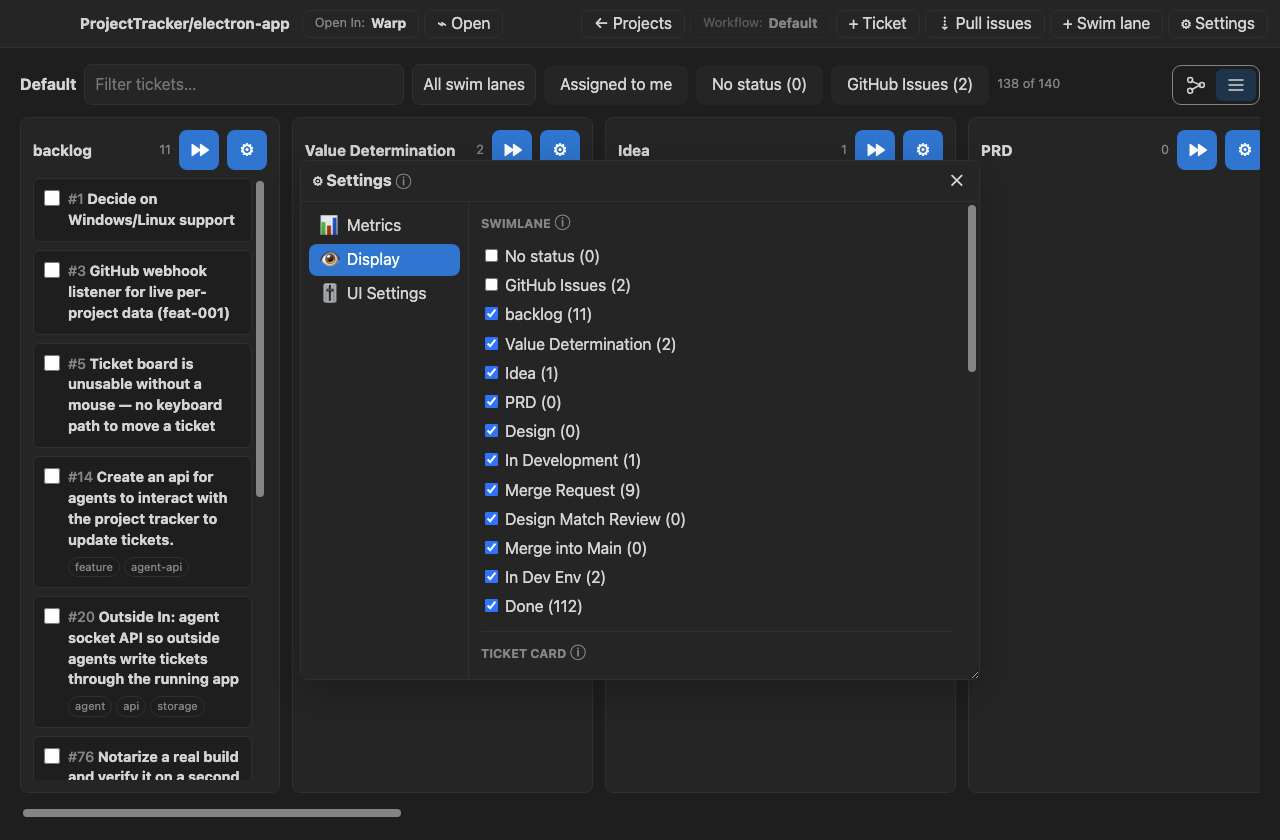
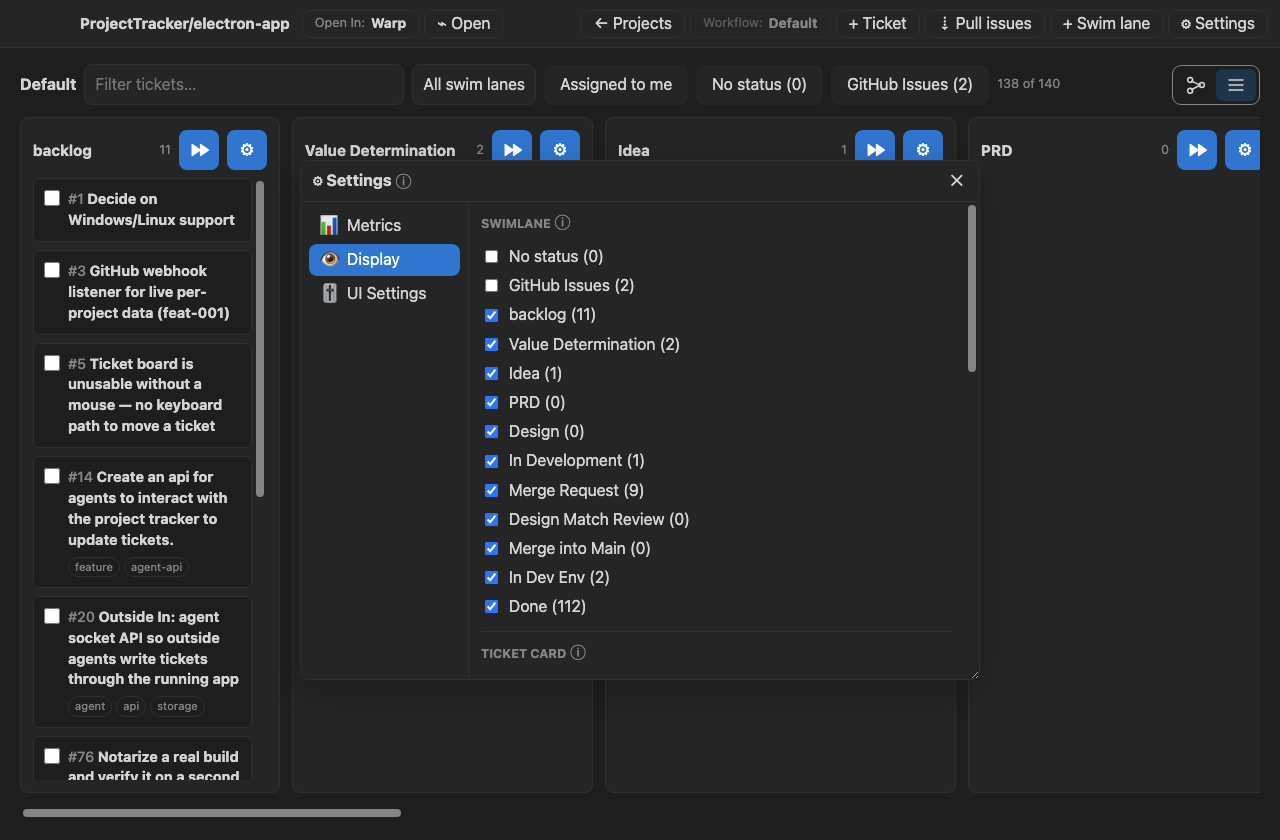
Review fixes: Display row styles in Settings panel, PRD criteria for sidebar layout
Display checkbox rows lost their gap/cursor/color once they moved out of
.modal. Stale 320px comment updated. PRD acceptance + verify steps now
describe the sidebar layout.

Changed region(s): [[0.375, 0.2786, 0.5312, 0.7429]]

diff --git a/src/styles.css b/src/styles.css
@@ -1584,7 +1584,8 @@ code {
 
 /* Scoped through .modal to outrank `.lane-modal label`, which stacks its label
    contents in a column — a checkbox and its text belong on one line. */
-.modal .card-field-list label {
+.modal .card-field-list label,
+.ui-demo-panel .card-field-list label {
   display: flex;
   flex-direction: row;
   align-items: center;
@@ -2547,7 +2548,7 @@ span.ticket-image-thumb {
   touch-action: none;
 }
 
-/* Static so the bubble anchors to the titlebar's left edge and fits the 320px panel. */
+/* Static so the bubble anchors to the titlebar's left edge and stays inside the panel. */
 .ui-demo-titlebar .info-tip {
   position: static;
   cursor: default;

diff --git a/docs/prd/t145-settings-floating-panel.md b/docs/prd/t145-settings-floating-panel.md
@@ -39,24 +39,23 @@ Settings takes two hops today. `⚙ Settings` (`BoardView.vue:1635`) opens a Set
 ## Acceptance criteria
 - Header has exactly one `⚙ Settings` button
 - Clicking it opens the floating Settings panel, with no modal and no backdrop. Clicking it again closes the panel, and so do ✕ and Esc.
-- The panel has 3 accordion sections, Metrics, Display and UI Settings, each with a clickable `<summary>` header (keyboard: Enter/Space)
-- All 3 start collapsed. Open state holds while the app runs and resets on restart.
+- The panel opens centered every time and is resizable (bottom-right grip), staying inside the window
+- Left sidebar lists Metrics, Display and UI Settings; the selected section's content shows on the right. Metrics is selected by default; the selection holds while the app runs and resets on restart.
 - Section contents behave as before: Metrics windows/totals, the Display toggles (lane visibility, card fields, lane-modal fields) apply live, and UI Settings sliders/selects/Reset work
-- With every section expanded the panel stays inside the viewport and its body scrolls. It's still draggable by the titlebar.
+- The content pane scrolls when it overflows. The panel is still draggable by the titlebar.
 - No references to `settingsOpen`, `boardSettingsOpen`, `.settings-modal` remain
 - `bun run test` + typecheck pass. The app was exercised on an isolated DB copy before merge (memory: run-app-before-merge / drive-app-via-cdp).
 
 ## Verify (manual, isolated DB)
-1. Open the board, click `⚙ Settings`: the panel appears with 3 collapsed sections
-2. Expand Display and toggle a card field: the card updates live. Hide a lane: the lane disappears.
-3. Expand Metrics: the table renders inline without clipping. If it's wider than 320px, see Risks.
-4. Expand all three: the body scrolls and the panel bottom stays on screen. Drag the panel near the bottom edge and expand a section: it clamps back up.
-5. Esc closes the panel. Reopen it and the sections keep their open state.
-6. Switch Board → Dashboard → Board and reopen: the state is still there
+1. Open the board, click `⚙ Settings`: the panel appears centered with Metrics selected
+2. Select Display and toggle a card field: the card updates live. Hide a lane: the lane disappears. The pane scrolls.
+3. Select Metrics and open the table: it scrolls sideways inside the pane instead of clipping.
+4. Drag the panel to a corner: it clamps on screen. Resize it: it stops at the window edge.
+5. Esc closes the panel. Reopen it: centered again, last-selected section still selected.
+6. Switch Board → Dashboard → Board and reopen: the selection is still there
 
 ## Risks
-- The Metrics table may be wider than the 320px panel. Fallback: `overflow-x: auto` on the Metrics section body. Don't widen the panel unless the table looks broken.
-- `UiSettingsPanel` sits at z-index 250, above modal backdrops (200). A ticket/lane modal opened while the panel is open shows under the panel. Behaviour is unchanged (it's already the case today), so out of scope.
+- `UiSettingsPanel` sits at z-index 250, above modal backdrops (200), on purpose (#129: UI knobs stay usable while a modal is open). At 680×520 centered it now covers more of a ticket/lane modal opened behind it; drag or close the panel. Out of scope.
 
 ## Out of scope
 - Changing what any section contains
